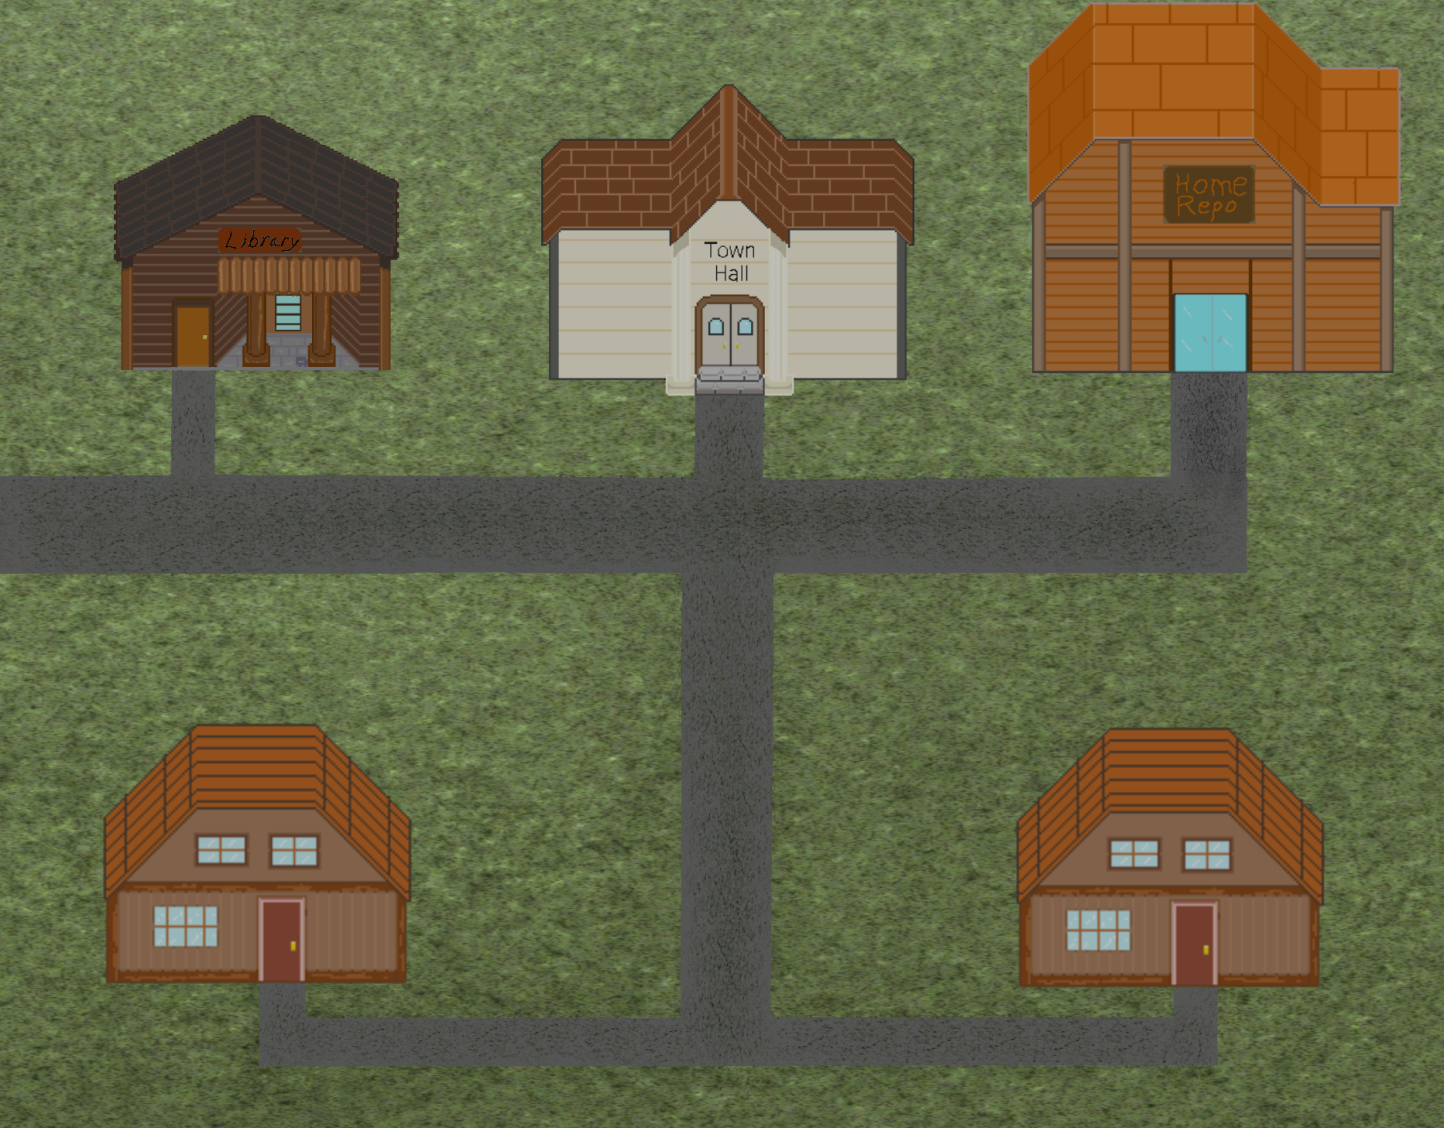
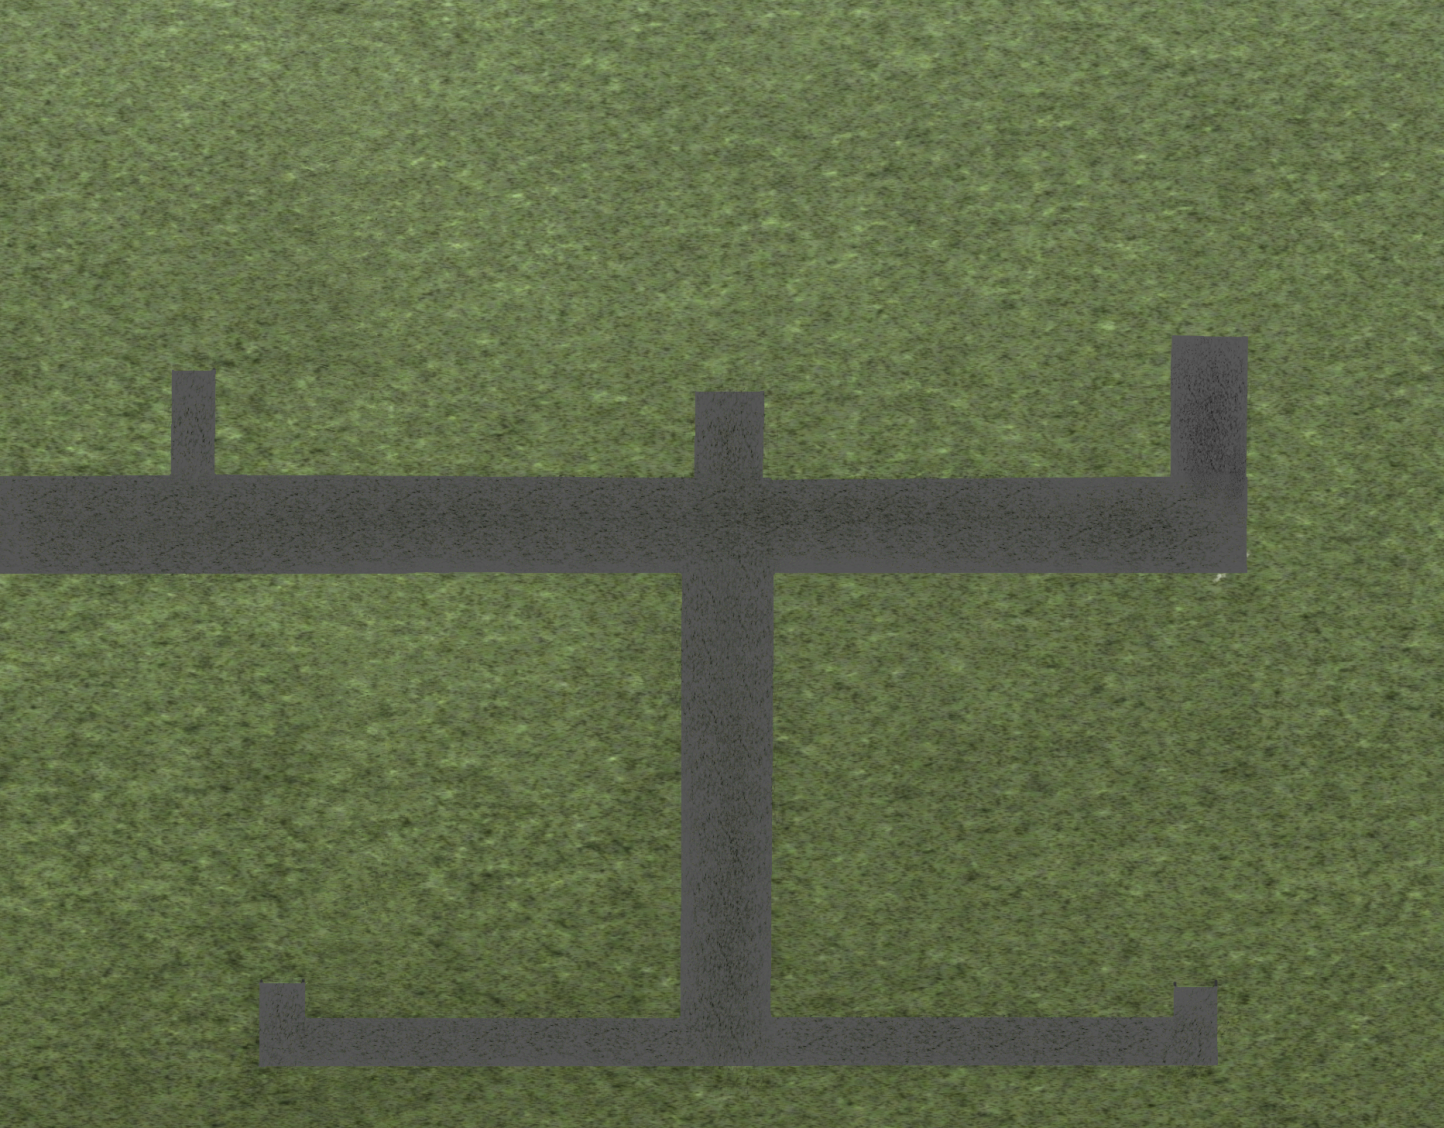
Stuff

diff --git a/src/Map.js b/src/Map.js
@@ -20,10 +20,12 @@ class Map {
             });
         //an initial call to hitboxes if not called yet. Here to prevent reuse.
         if (this.initialized == false){
+            console.log("initialized");
             this.initializeZone();
             this.initialized = true;
         } else {
             children.forEach((child) => {
+                //console.log("being enabled");
                 this.scene.physics.world.enable(child);
             });
         }
@@ -47,7 +49,7 @@ class Map {
         );
         this.scene.events.emit('freezeInput', true);
         this.scene.cameraManager.addUI(blackScreen);
-        blackScreen.setDepth(2);
+        blackScreen.setDepth(10);
         blackScreen.alpha = 0;
         this.scene.tweens.add({
             targets: blackScreen,
@@ -56,9 +58,11 @@ class Map {
             onComplete: () => {
                 this.visible = false;
                 this.group.setVisible(false);
+                let i = 0;
                 let children = this.group.getChildren();
-                children.forEach((child) => {
-                    console.log("hello"); 
+                children.forEach((child) => { 
+                    i++;
+                    //console.log(this.mapName + i);
                     this.scene.physics.world.disable(child);
                 });
                 this.mapImage.setVisible(false);
@@ -66,29 +70,39 @@ class Map {
                 nextMap.showMap();
                 return true;
             }
-        }); 
+        });
+        console.log("Vanished Finished");
     }
     initializeZone(){
         //console.log(this.mapName);
         switch (this.mapName){
             case "Present Day":
-                this.addHitbox(518, 174, 50, 20, "PresentDayInt", 998, 349);
+                this.addHitbox(518, 210, 50, 20, "PresentDayInt", 998, 349);
                 this.addHitbox(-16, 178, 40, 20, "PresentDayInt", -84, 329);
-                this.addHitbox(1000, 180, 70, 20, "PresentDayInt", 527, 244);
+                this.addHitbox(1000, 185, 70, 20, "PresentDayInt", 527, 244);
                 this.addHitbox(986, 790, 50, 20, "PresentDayInt", 879, 811);
-                this.addHitbox(71, 785, 50, 20, "PresentDayInt", 97, 814);
+                this.addHitbox(71, 790, 50, 20, "PresentDayInt", 97, 814);
                 this.addHitbox(-220, 354, 30, 1000, "Initial Park", 1122, 538, false, true);
                 //Bounds Initialization
                 this.addBounds(500, 950, 1500, 50, "Present Day");
                 this.addBounds(1218, 473, 50, 1500, "Present Day");
-                this.addBounds(501, -115, 1500, 50, "Present Day");
+                this.addBounds(501, -48, 1500, 50, "Present Day");
+                //Library
+                this.addBounds(44, 139, 266, 100,"Present Day");
+                //house
+                this.addBounds(47, 755, 295, 90,"Present Day");
+                //Home Repo
+                this.addBounds(1002, 135, 355, 115, "Present Day");
+                //Town Hall
+                this.addBounds(520, 156, 350, 90, "Present Day");
                 break;
             case "PresentDayInt":
-                this.addHitbox(998, 375, 50, 20, "Present Day", 514, 203);
+                this.addHitbox(998, 375, 50, 20, "Present Day", 514, 250);
                 this.addHitbox(-84, 355, 50, 20, "Present Day", -16, 206);
-                this.addHitbox(525, 272, 50, 20, "Present Day", 1001, 208);
+                this.addHitbox(525, 272, 50, 20, "Present Day", 1001, 212);
                 this.addHitbox(879, 850, 50, 20, "Present Day", 976, 816);
-                this.addHitbox(95, 842, 50, 20, "Present Day", 71, 813);
+                this.addHitbox(97, 843, 50, 20, "Present Day", 71, 816);
+                //this.addHitbox(95, 842, 50, 20, "Present Day", 71, 810);
                 break;
             case "Initial Park":
                 this.addHitbox(1160, 364, 20, 1000, "Present Day", -193, 339, false, true);

diff --git a/src/scenes/Town.js b/src/scenes/Town.js
@@ -35,11 +35,14 @@ class Town extends Phaser.Scene
     {
         this.load.path = '../assets/';
         this.load.spritesheet('player', '/General/Player_spritesheet.png', { frameWidth: 16, frameHeight: 32});
-        this.load.image('PresentDayMap', '/Scene_PresentDay/PresentDay.png');
-        this.load.image('1700sMap', '/Scene_1700s/1700s.png');
-        this.load.image('1960sMap', '/Scene_1960s/1960s.png');
+        this.load.image('presentDayFloor', '/Scene_PresentDay/PresentDay.png');
+        this.load.image('trees', '/Scene_PresentDay/trees.png');
+        this.load.image('presentDayHousing', '/Scene_PresentDay/buildings_all.png');
+        this.load.image('1700sFloor', '/Scene_1700s/1700s.png');
+        this.load.image('1960sFloor', '/Scene_1960s/1960s.png');
         this.load.image('PresentDayInt', '/Scene_PresentDay/Interior.png');
         this.load.image('dialogueBox', '/HUD/text_box.png');
+        
         this.load.image('parkStart', '/Scene_PresentDay/Park_Initial.png');
         this.loadAudio('overworldBGM', '/Music/GAME SONG.mp3', 0.2);
         this.loadAudio('npcAudio', 'npcAudio.mp3', 1);
@@ -142,14 +145,19 @@ class Town extends Phaser.Scene
         };
         this.purpleGuy = new PurpleGuy(this, 400, 500, purpleGuyData);
 
-
-        this.PresentDayBG = this.add.image(screenWidth/2, screenHeight/2, 'PresentDayMap');
+        this.trees = this.add.image(screenWidth/2, screenHeight/2, 'trees');
+        this.trees.depth = 3;
+        this.trees.alpha = 1;
+        this.buildingPresent = this.add.image(screenWidth/2, screenHeight/2, 'presentDayHousing');
+        this.buildingPresent.depth = 4;
+        this.buildingPresent.alpha = 1;
+        this.PresentDayBG = this.add.image(screenWidth/2, screenHeight/2, 'presentDayFloor');
         this.PresentDayBG.depth = 1;
         this.PresentDayBG.alpha = 1;
-        this.BeginningTimeBG = this.add.image(screenWidth/2, screenHeight/2, '1700sMap');
+        this.BeginningTimeBG = this.add.image(screenWidth/2, screenHeight/2, '1700sFloor');
         this.BeginningTimeBG.depth = 1;
         this.BeginningTimeBG.alpha = 1;
-        this.MiddleTimeBG = this.add.image(screenWidth/2, screenHeight/2, '1960sMap'); 
+        this.MiddleTimeBG = this.add.image(screenWidth/2, screenHeight/2, '1960sFloor'); 
         this.MiddleTimeBG.depth = 1;
         this.MiddleTimeBG.alpha = 1;
         this.initalParkBG = this.add.image(screenWidth/2, screenHeight/2-200, 'parkStart');
@@ -174,12 +182,15 @@ class Town extends Phaser.Scene
         this.group3 = this.add.group();
         this.group4 = this.add.group();
         this.group5 = this.add.group();
+        //Adding for groups
+        this.group1.add(this.trees);
+        this.group1.add(this.buildingPresent);
+        //
         this.presentDayMap = new Map(this, "Present Day", this.PresentDayBG, this.group1);
         this.sixtiesMap = new Map(this, "1960s", this.MiddleTimeBG, this.group2);
         this.earlyMap = new Map(this, "1700s", this.BeginningTimeBG, this.group3);
         this.presentDayInt = new Map (this, "PresentDayInt",  this.presentDayIntBG, this.group4);
         this.initalPark = new Map (this, "Initial Park", this.initalParkBG, this.group5);
-        //this.presentDayInt.initializeHitboxes();
         this.mapManager = new MapState(this,this.PlayerCamera, this.player, this.earlyMap, this.sixtiesMap, this.presentDayMap, this.initalPark, this.presentDayInt);
         this.mapManager.initialize();
         //used to trigger a test on mapstate transitions
@@ -193,8 +204,8 @@ class Town extends Phaser.Scene
     {
         // this.joystick.update();
         // this.player.update();
-        console.log("x " + this.player.x);
-        console.log("y " + this.player.y);
+        //console.log("x " + this.player.x);
+        //console.log("y " + this.player.y);
 
     }
 }

diff --git a/src/MapStates.js b/src/MapStates.js
@@ -29,29 +29,32 @@ class MapState {
             }
         }
 
-        if (typeof this.nextMap != 'undefined'){
+        if (typeof this.nextMap != 'undefined' && this.currentMap.getName() != this.nextMap.getName()){
+            console.log("Next Map " + this.nextMap.mapName);
             if(this.nextMap.getName().includes("Int") || this.nextMap.getName().includes("Park")){
-                    this.currentMap.Vanish(this.nextMap, 600);
+                    this.currentMap.Vanish(this.nextMap, 700);
                     this.currentMap = this.nextMap;
-                    this.scene.time.delayedCall(600, () => {
+                    console.log("Set Current Map 1 " + this.currentMap.mapName);
+                    this.scene.time.delayedCall(700, () => {
                         if(!keepX) this.player.x = destX;
                         if(!keepY) this.player.y = destY;
                     });
             }
-            //extremely messy, but takes care of cases of being inside.
-            if (this.currentMap.getName().includes("Int") || this.currentMap.getName().includes("Park")){
+            else if (this.currentMap.getName().includes("Int") || this.currentMap.getName().includes("Park")){
                     this.currentMap.Vanish(this.nextMap, 600);
                     this.currentMap = this.nextMap;
+                    console.log("Set Current Map 2" + this.currentMap.mapName);
                     this.scene.time.delayedCall(600, () => {
                         if(!keepX) this.player.x = destX;
                         if(!keepY) this.player.y = destY;
                     });
             }
             else {
-                console.log(this.nextMap.getName());
+                console.log("TIE TAVEL");
                 this.currentMap.Vanish(this.nextMap, 2000);
                 this.currentMap = this.nextMap;
                 this.scene.time.delayedCall(2000, () => {
+                    
                     if(!keepX) this.player.x = destX;
                     if(!keepY) this.player.y = destY;
                 });

diff --git a/src/Hitbox.js b/src/Hitbox.js
@@ -8,6 +8,7 @@ class Hitbox extends Phaser.GameObjects.Rectangle {
         this.keepY = keepY;
         this.mapName = mapName;
         this.scene = scene;
+        
         this.player = this.scene.player;
 
         this.setDepth(2);
@@ -17,8 +18,10 @@ class Hitbox extends Phaser.GameObjects.Rectangle {
         this.body.setImmovable(true);
         this.waitForNextCollision = false;
         this.scene.physics.add.collider(this.player, this, () => {
-            if(this.waitForNextCollision) return;
-            this.waitForNextCollision = true;
+            /*if(this.waitForNextCollision) return;
+            this.waitForNextCollision = true;*/
+            this.scene.physics.world.disable(this);
+            console.log("Wait for Next Collision");
             this.scene.mapManager.loadingZone(this.mapName, this.destX, this.destY, this.keepX, this.keepY);
         });
     }
